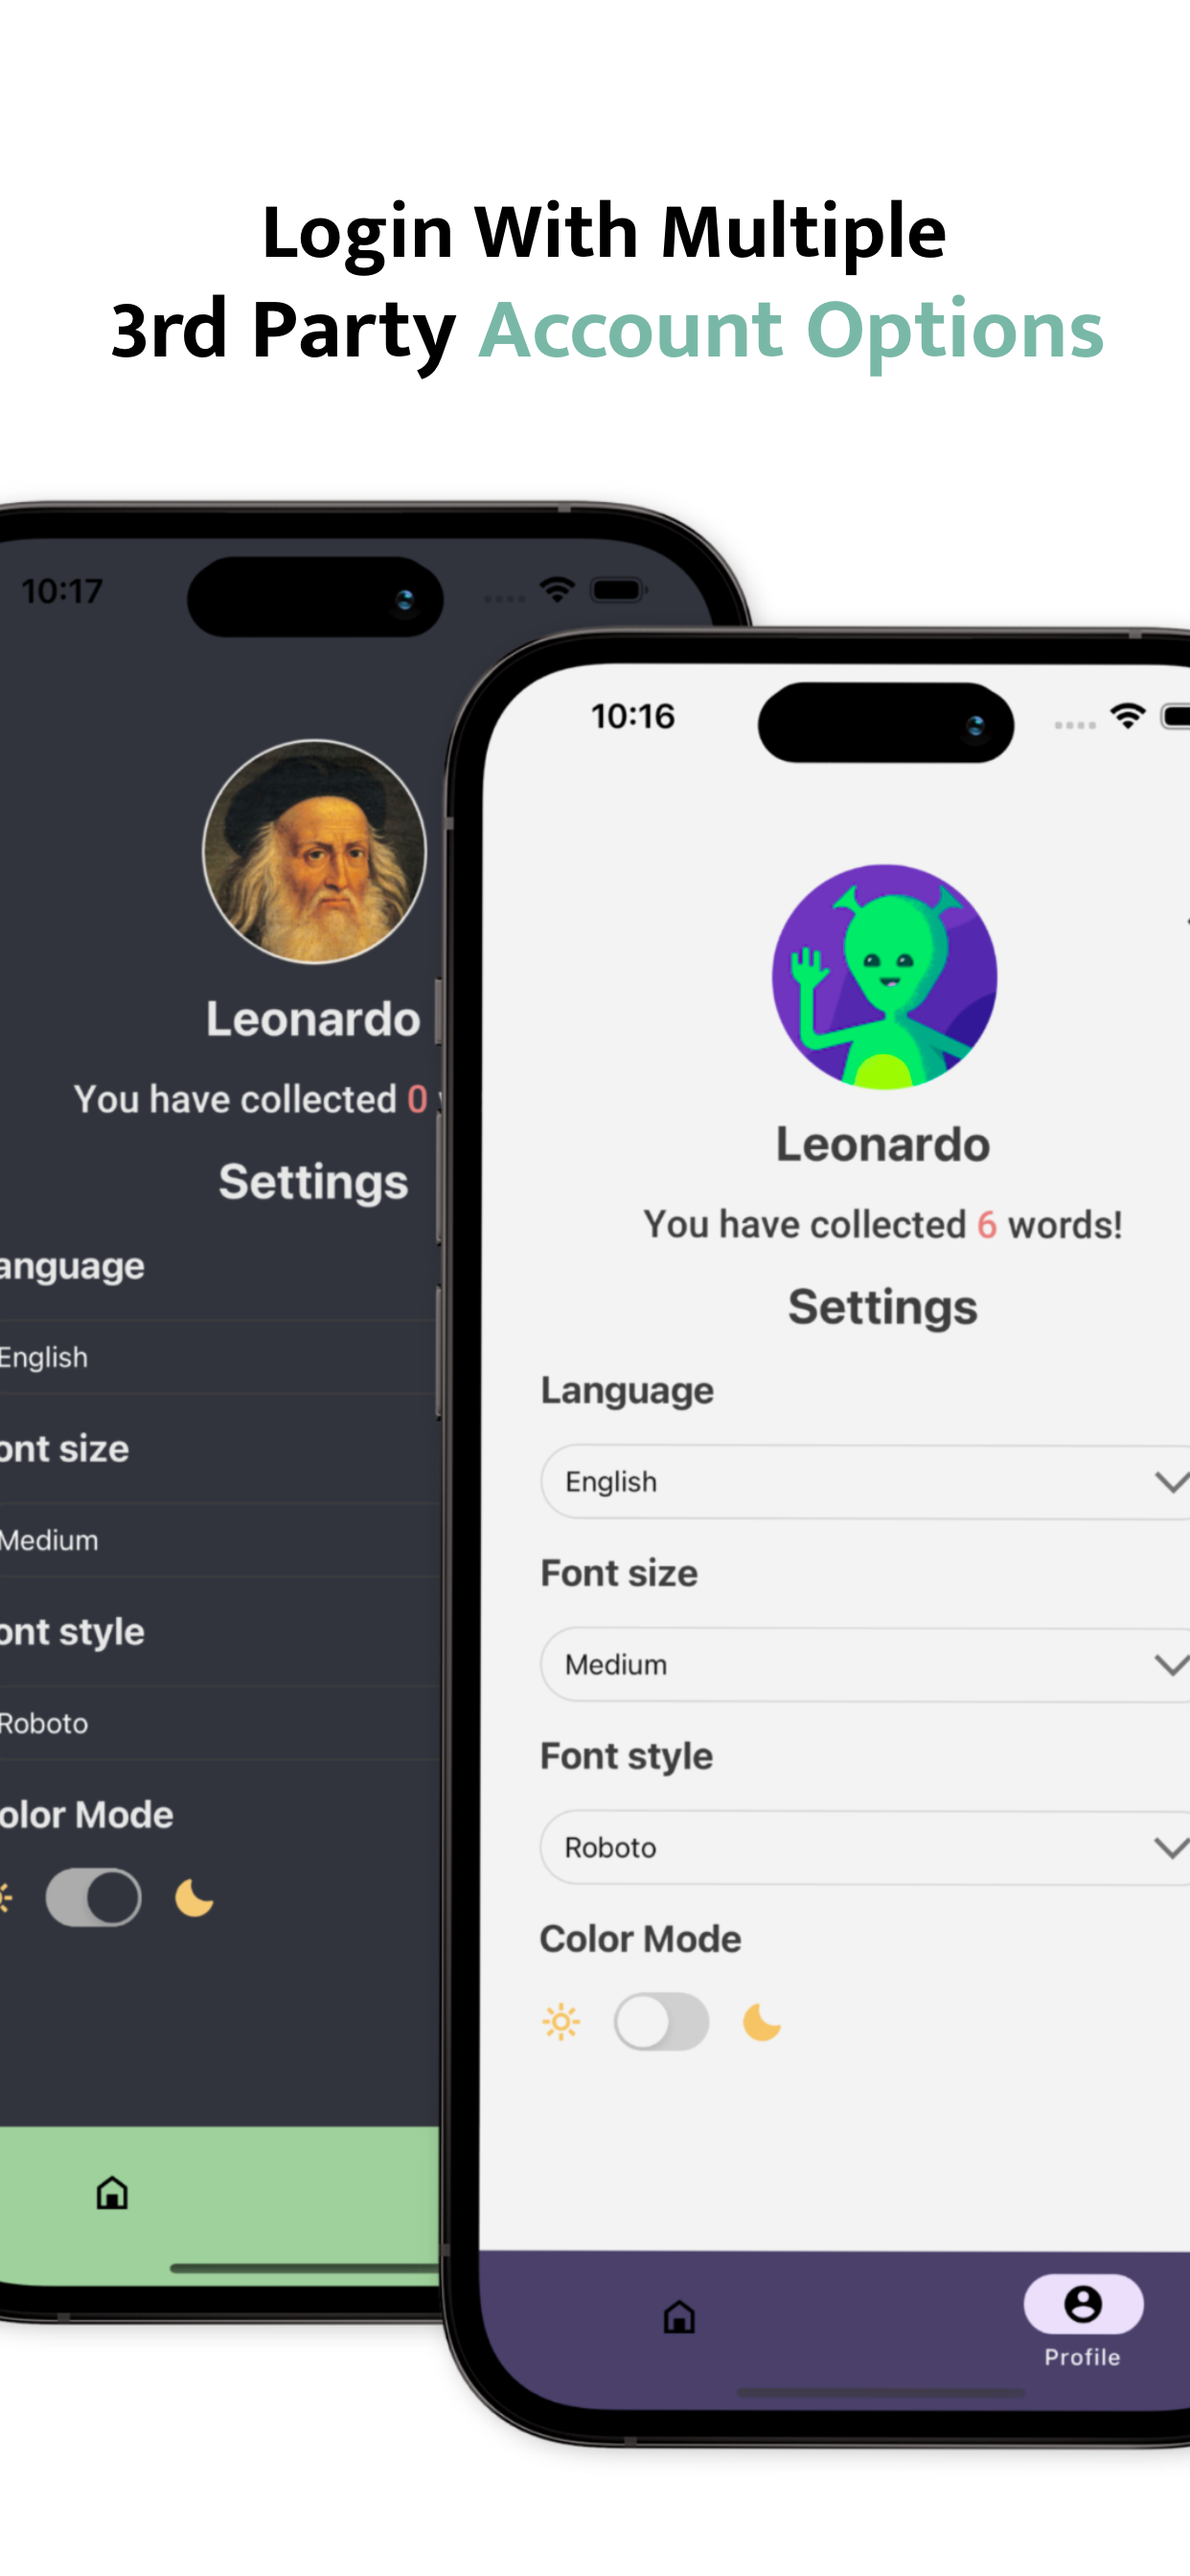
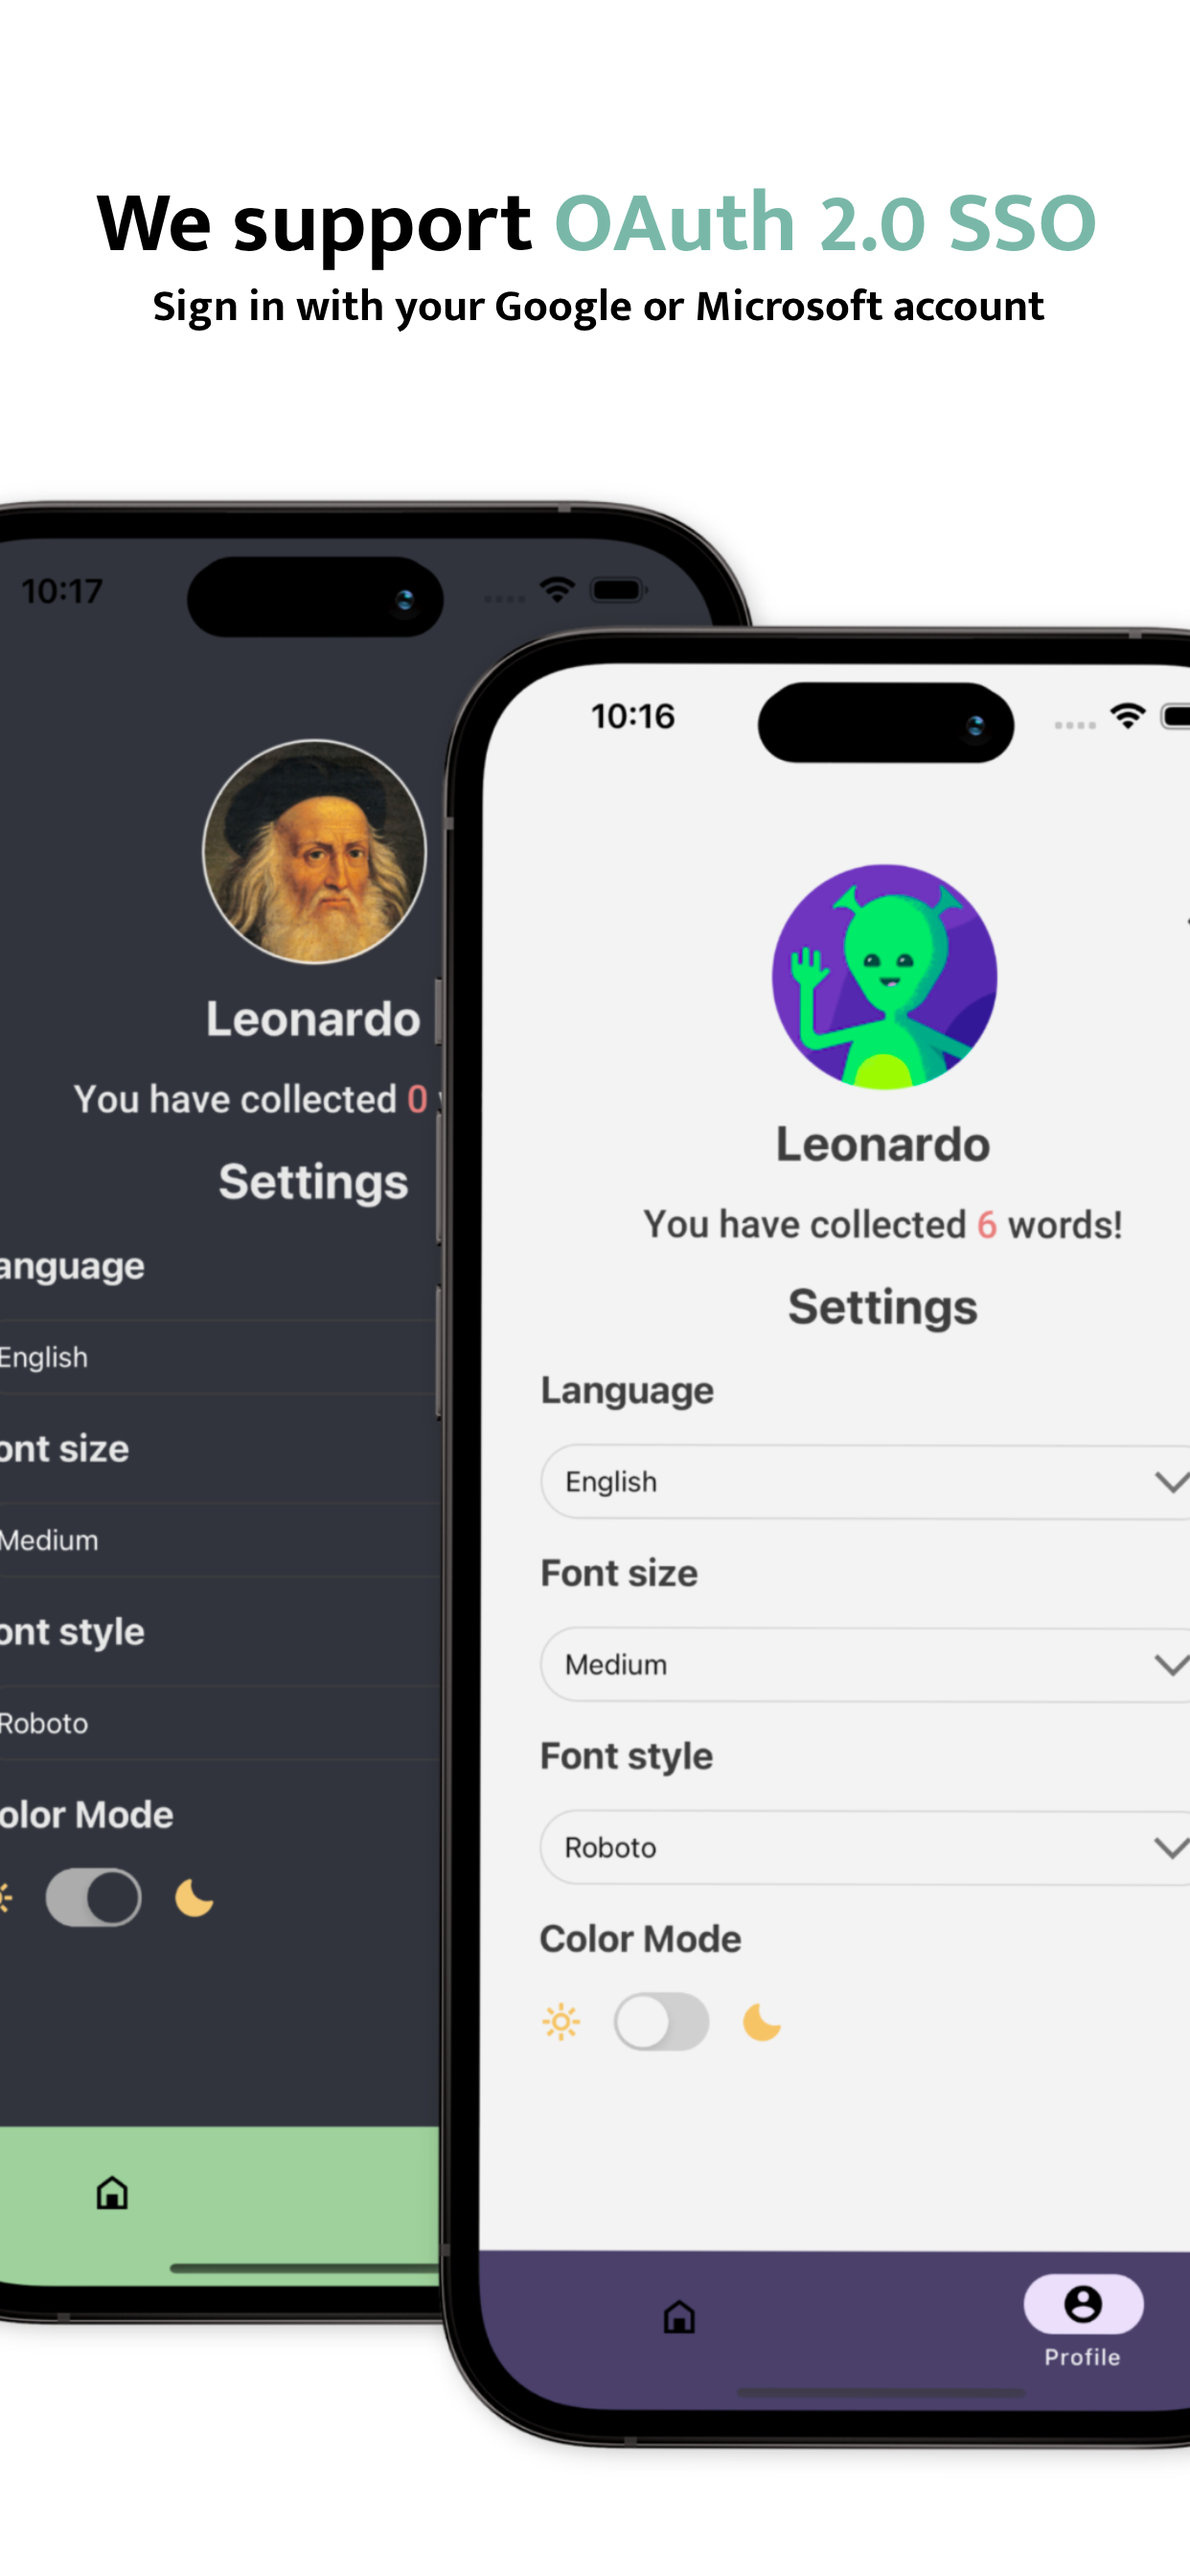
Update demo screenshot6 copy

Changed region(s): [[0.0612, 0.0625, 0.9179, 0.1562]]

diff --git a/README.md b/README.md
@@ -26,4 +26,4 @@ Available in English, Spanish, Chinese, Japanese, Korean and Thai. VocaBoost all
 
 ![Home Screen](demo/screenshot1.png) | ![Study Screen](demo/screenshot2.png) | ![Collection](demo/screenshot3.png) | ![Sorting Options](demo/screenshot7.png)
 :-:|:-:|:-:|:-:
-![Light/Dark Mode](demo/screenshot5.png) | ![Information Pop-up](demo/screenshot4.png) |  ![pp](demo/screenshot6.png)
+![Light/Dark Mode](demo/screenshot5.png) | ![Information Pop-up](demo/screenshot4.png) |  ![SSO Login](demo/screenshot6.png)
